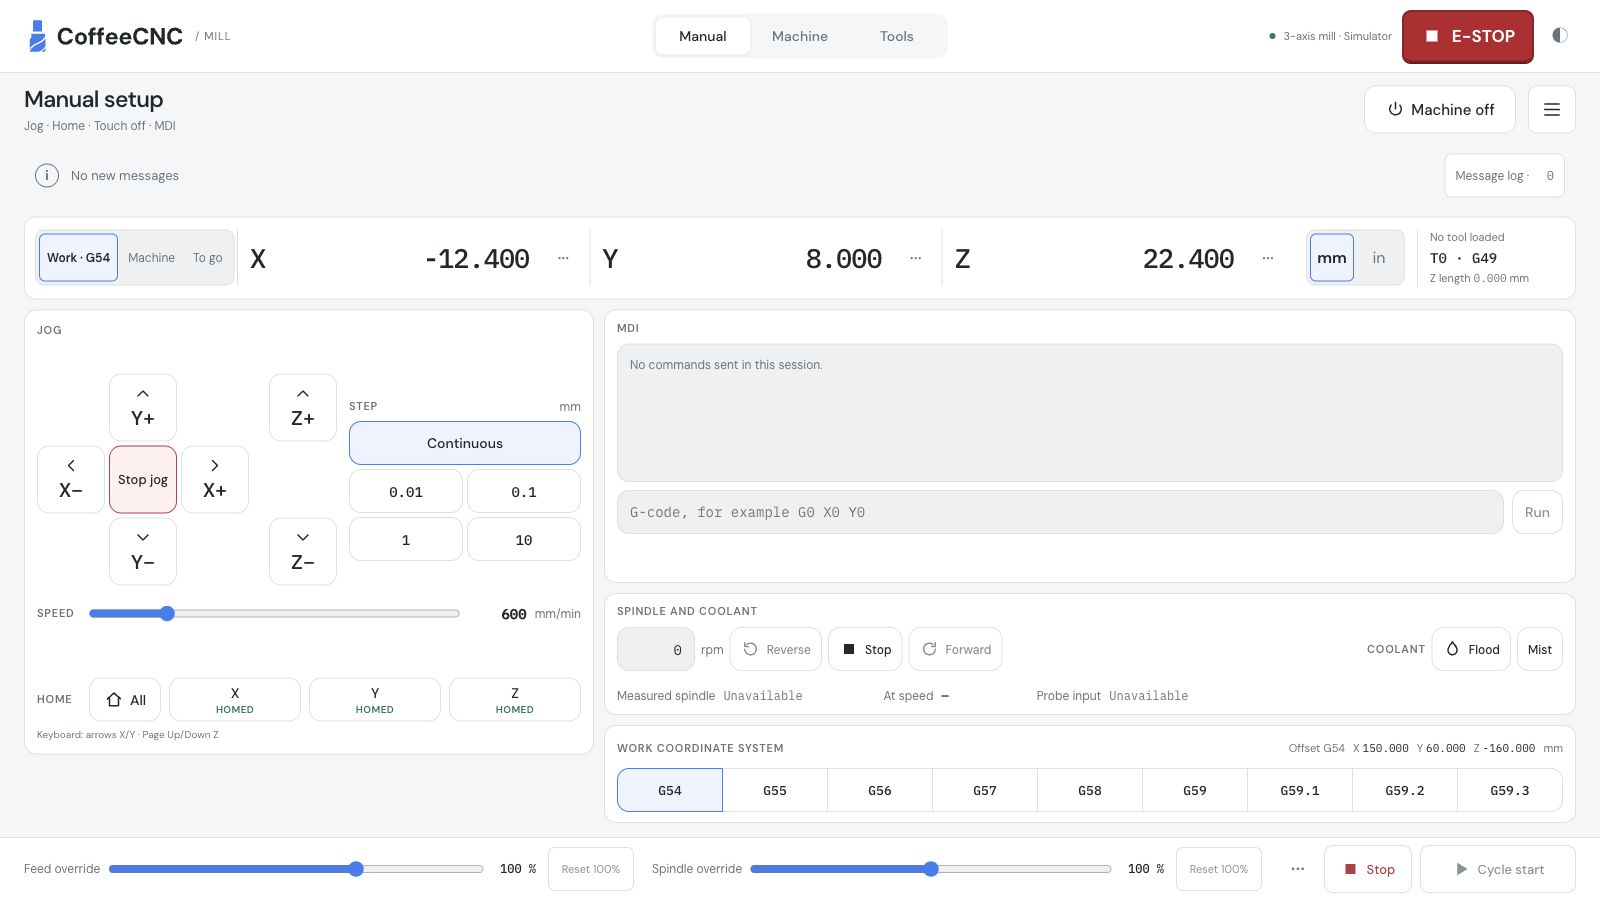
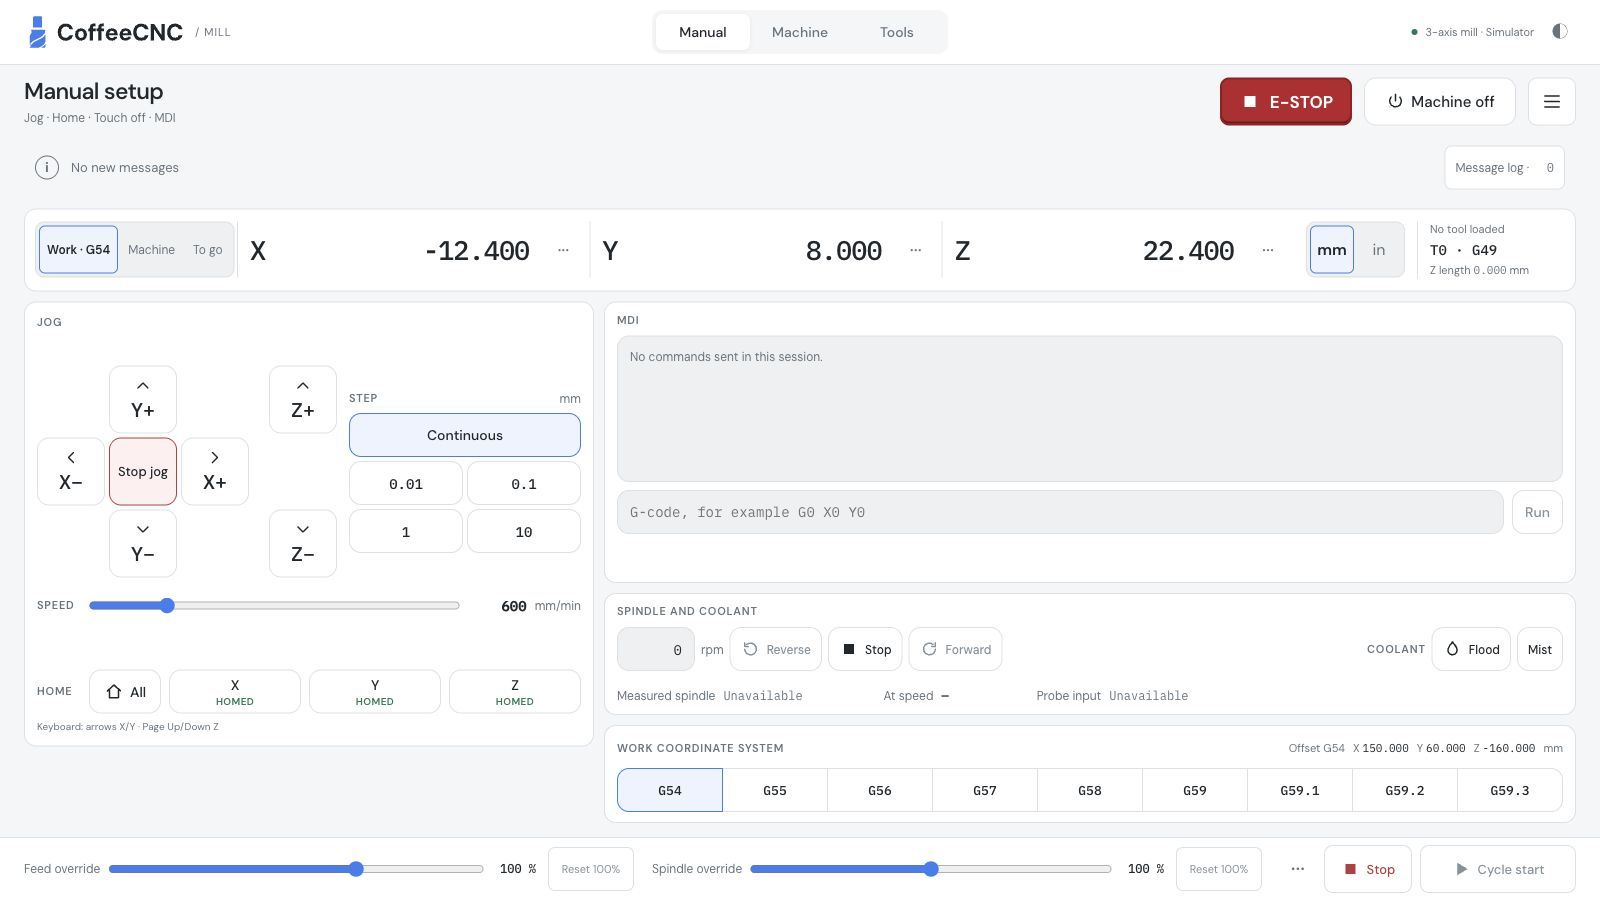
Align E-stop beside the machine power button

diff --git a/ui/src/components/StatusBar.vue b/ui/src/components/StatusBar.vue
@@ -97,7 +97,6 @@ const subtitle = computed(() => {
     </nav>
     <div class="machine">
       <span v-tooltip="linkLabel" class="connection" :class="{ disconnected: !live }"><i class="dot"></i><span class="connection-label">{{ linkLabel }}</span></span>
-      <button class="estop" type="button" aria-label="Assert software E-stop" @click="send({ type: 'set_machine', state: 'estop' })"><AppIcon name="stop" />E-STOP</button>
       <button class="theme" type="button" :aria-label="`Switch to ${theme === 'light' ? 'dark' : 'light'} theme`" @click="toggleTheme">◐</button>
     </div>
   </header>
@@ -107,6 +106,7 @@ const subtitle = computed(() => {
       <p class="subtitle">{{ subtitle }}</p>
     </div>
     <div class="machine-controls">
+      <button class="estop" type="button" aria-label="Assert software E-stop" @click="send({ type: 'set_machine', state: 'estop' })"><AppIcon name="stop" />E-STOP</button>
       <button class="btn power-control" :class="{ go: status?.machine === 'off' }" type="button" :disabled="powerBlocked" @click="power(powerTarget)"><AppIcon name="power" />{{ powerLabel }}</button>
       <details ref="menu" class="state-menu">
         <summary v-tooltip="'App menu'" class="app-menu-toggle" aria-label="App menu"><AppIcon name="menu" /></summary>
@@ -156,7 +156,7 @@ const subtitle = computed(() => {
 .dot { display: inline-block; width: 6px; height: 6px; border-radius: 50%; background: var(--go); flex: none; }
 .disconnected { color: var(--stop); }.disconnected .dot { background: var(--stop); }
 .theme { width: 32px; height: 36px; background: none; border: 0; color: var(--text-dim); font-size: 18px; cursor: pointer; }
-.estop { display: flex; align-items: center; justify-content: center; gap: 9px; flex: none; min-width: 132px; height: 52px; padding: 0 15px; background: #b9202b; border: 2px solid #941822; border-radius: 9px; box-shadow: 0 2px 0 #74131b; color: #fff; font-size: 17px; font-weight: 700; cursor: pointer; }
+.estop { display: flex; align-items: center; justify-content: center; gap: 9px; flex: none; min-width: 132px; height: 48px; padding: 0 15px; background: #b9202b; border: 2px solid #941822; border-radius: 9px; box-shadow: inset 0 -2px 0 #74131b; color: #fff; font-size: 17px; font-weight: 700; cursor: pointer; }
 .estop:hover { background: #a51924; }.estop:active { box-shadow: none; transform: translateY(1px); }.estop:focus-visible { outline: 3px solid var(--accent); outline-offset: 3px; }
 .estop :deep(svg) { width: 22px; height: 22px; }
 .machine-controls { display: flex; align-items: center; gap: 12px; flex: none; }.power-control { min-width: 152px; min-height: 48px; font-size: 15px; }
